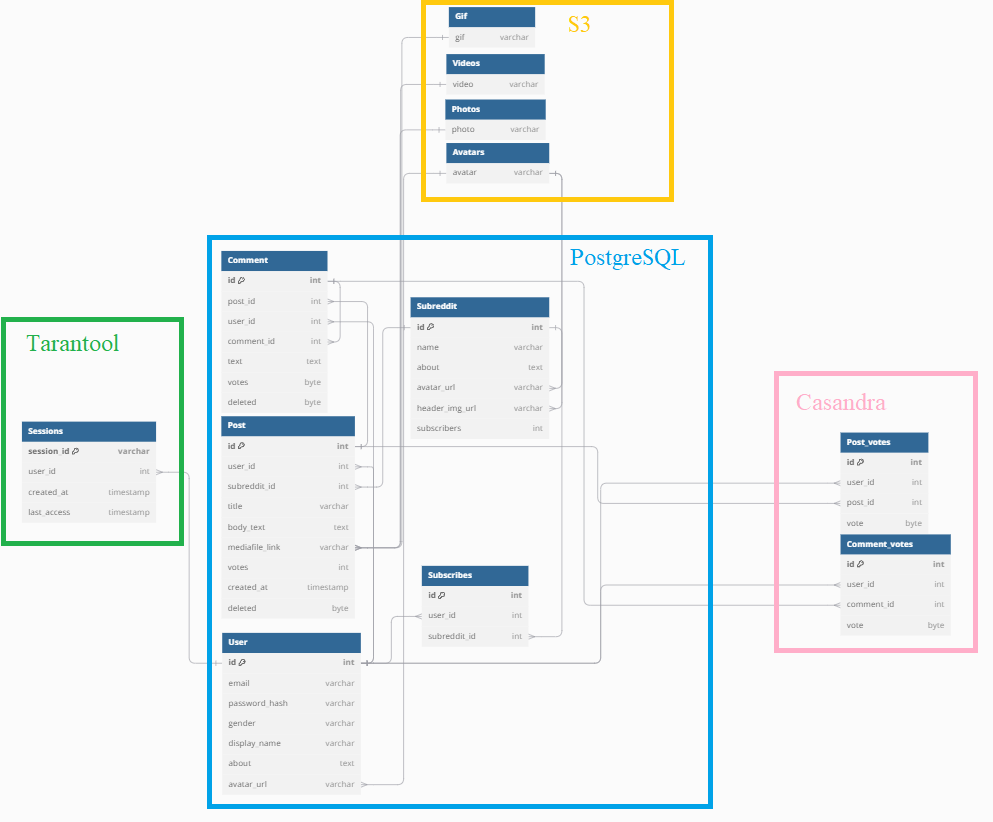
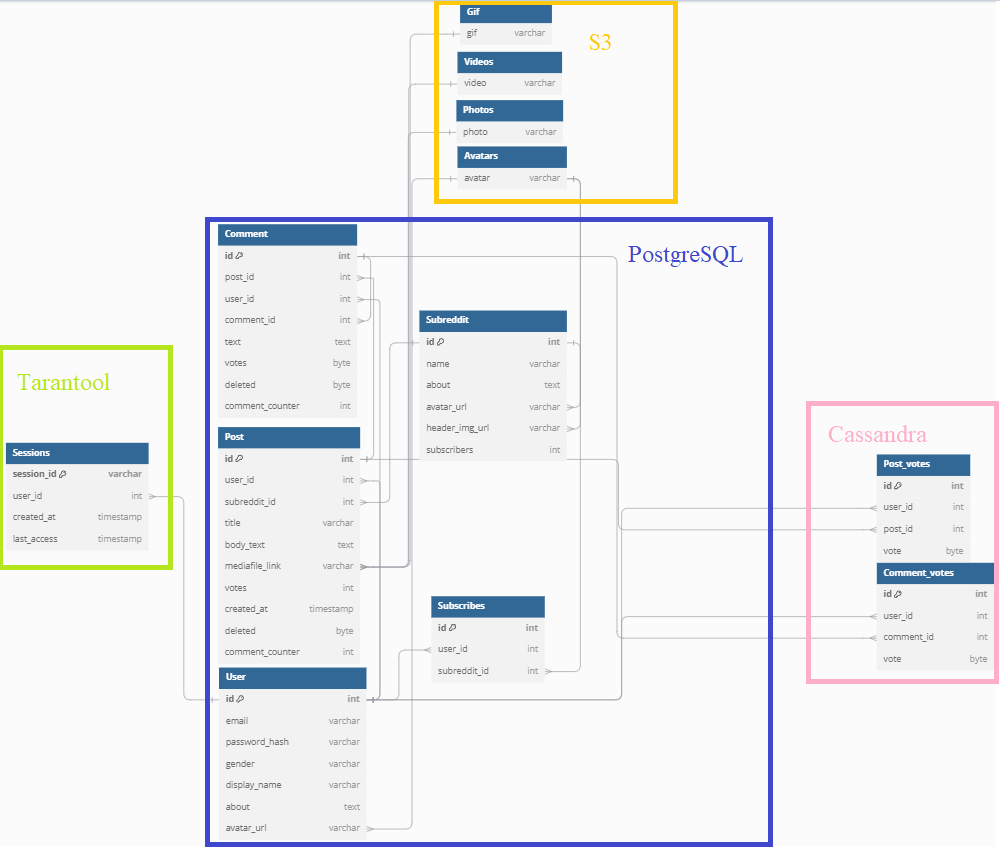
ДЗ 6

diff --git a/README.md b/README.md
@@ -285,16 +285,13 @@ MVP функционал:
 | Comment_votes     | 500:оценить | Запись >> Чтение|  
 
 
-К консистенции базы данных предъявляются большие требования, поскольку в базе существует множество связей. Например, связь user-post, user-comment, post-comment, vote-comment. Если консистентность нарушится, то БД не сможет прочитать критическую часть информации. Также, например, при удалении поста или комментария, необходимо удалять и голосования. Также пользователь не должен иметь возможность, к примеру, голосовать несколько раз (не изменять голос, а голосовать повторно).
-
-Особенности распределения нагрузки по ключам:
-шардирование по user_id для распределения комментариев, постов, оценок. Разделение данных по временным меткам. Кэширование популярных постов. Репликация таблиц, основная нагрузка на которые - чтение (User, Subreddit, Post)
-
 ### 6. Физическая схема БД. <a name="6"></a>
 
 ![Схема БД](img/DB_physical.png)
 
-Хранение всей статической информации реализовано при помощи S3 хранилища. Хранение сессий реализовано при помощи tarantool, поскольку является in-memory БД, позволяет обрабатывать запросы с высокой скоростью записи и чтения, поддерживает TTL и имеет возможность восстановиться в отличие от Redis. Основные сущности (Пользователи, Подписки, Посты, Комментарии, Сабреддиты) хранятся при помощи PostgreSQL, поскольку данные таблицы требуют высокой консистентности. Для данных таблиц основная нагрузка это чтение, поэтому необходимо произвести репликацию пользователей, сабреддитов, постов и комментариев. Также будет применятся шардирование по временным меткам. Основной нагрузкой для оценок в свою очередь является запись. Поэтому в данном случае важно в первую очередь шардирование. Для хранения данных таблиц будет использована Cassandra, поскольку она уже имеет встроенный механизм горизонтального масштабирования.
+Хранение всей статической информации реализовано при помощи S3 хранилища. Хранение сессий реализовано при помощи tarantool, поскольку является in-memory БД, позволяет обрабатывать запросы с высокой скоростью записи и чтения и имеет возможность восстановиться в отличие от Redis. 
+Основные сущности (Пользователи, Подписки, Посты, Комментарии, Сабреддиты) хранятся при помощи PostgreSQL, поскольку данные таблицы требуют высокой консистентности. Для данных таблиц основная нагрузка это чтение, поэтому необходимо произвести репликацию пользователей, сабреддитов, постов и комментариев. Также будет применятся шардирование по временным меткам. 
+Основной нагрузкой для оценок в свою очередь является запись. Поэтому в данном случае важно в первую очередь шардирование. Для хранения данных таблиц будет использована Cassandra, поскольку она уже имеет встроенный механизм горизонтального масштабирования.
 
 Наиболее важными индексами являются оценка и дата создания в таблице постов и оценка, id поста и comment_id в таблице комментариев. В случае с постами ускорит выделение наиболее популярных и наиболее новых постов. В случае с комментариями позволит выстраивать очередность комментариев по популярности, а также ускорить нахождение ответов на комментарии.
 
